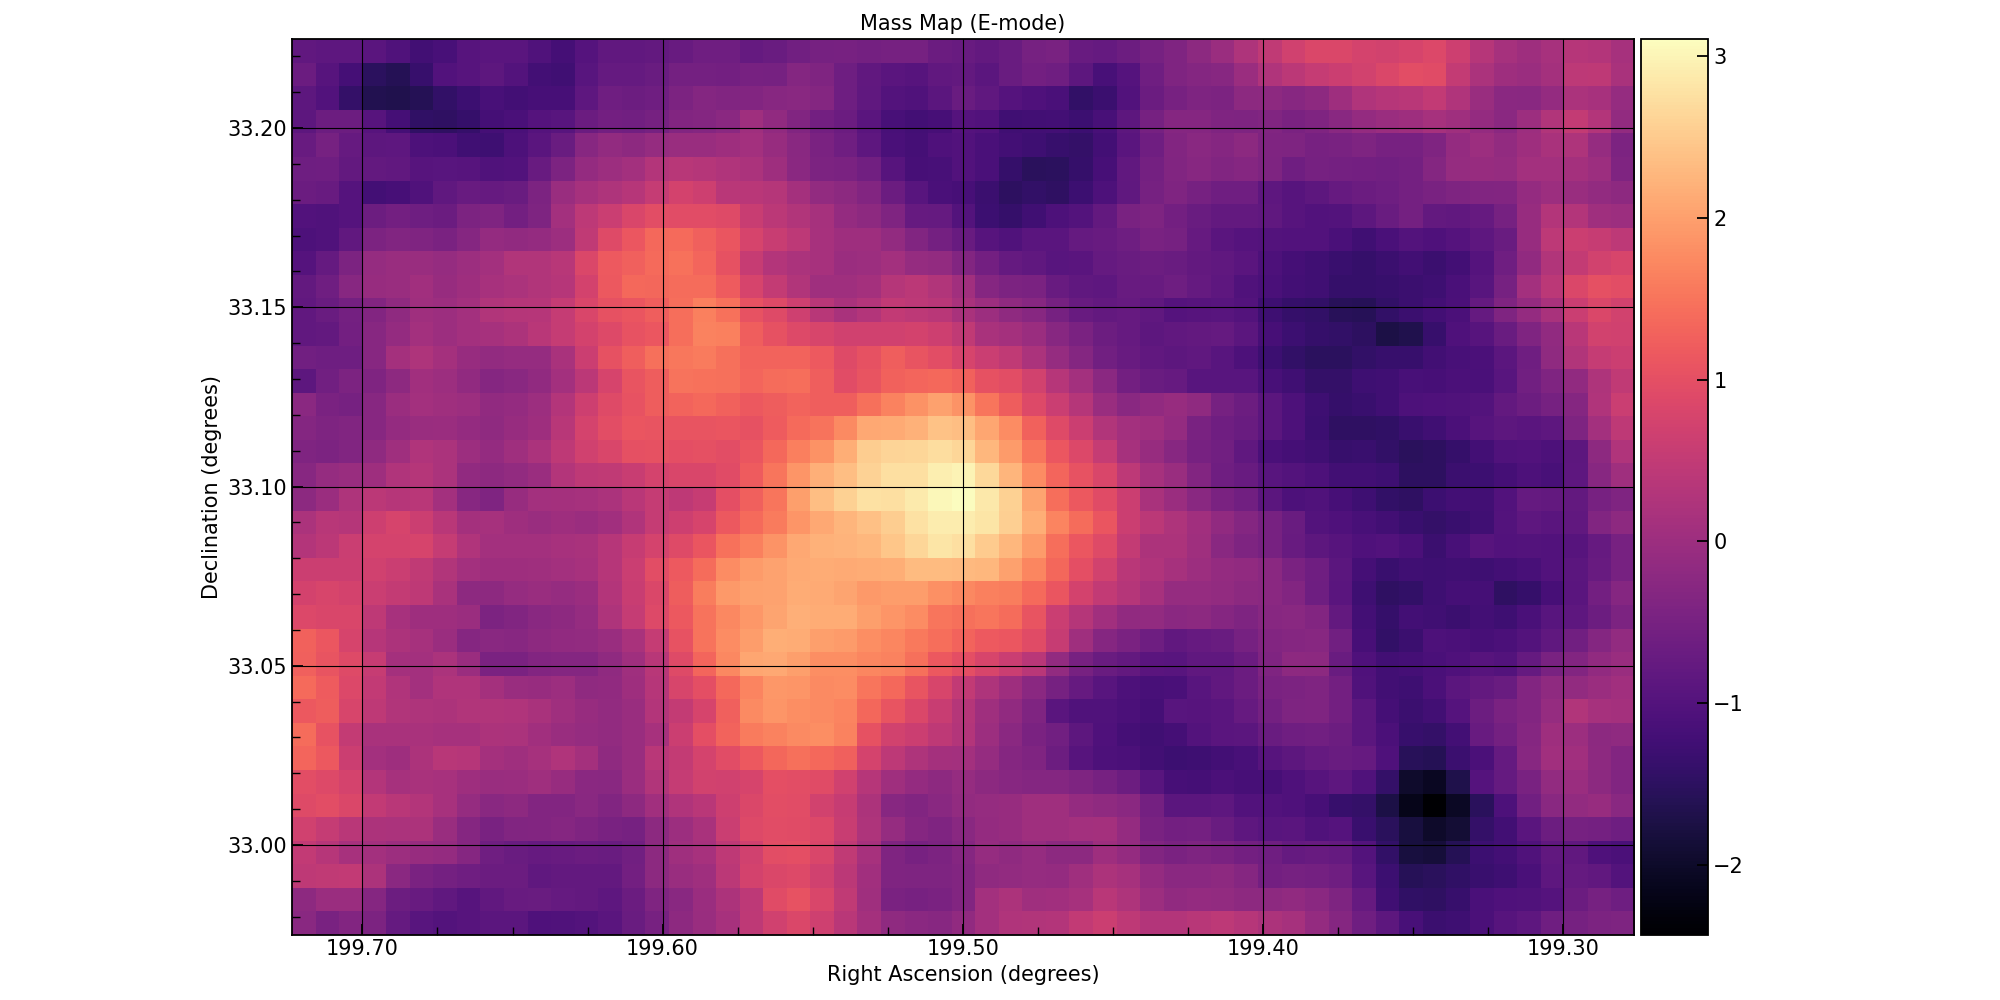
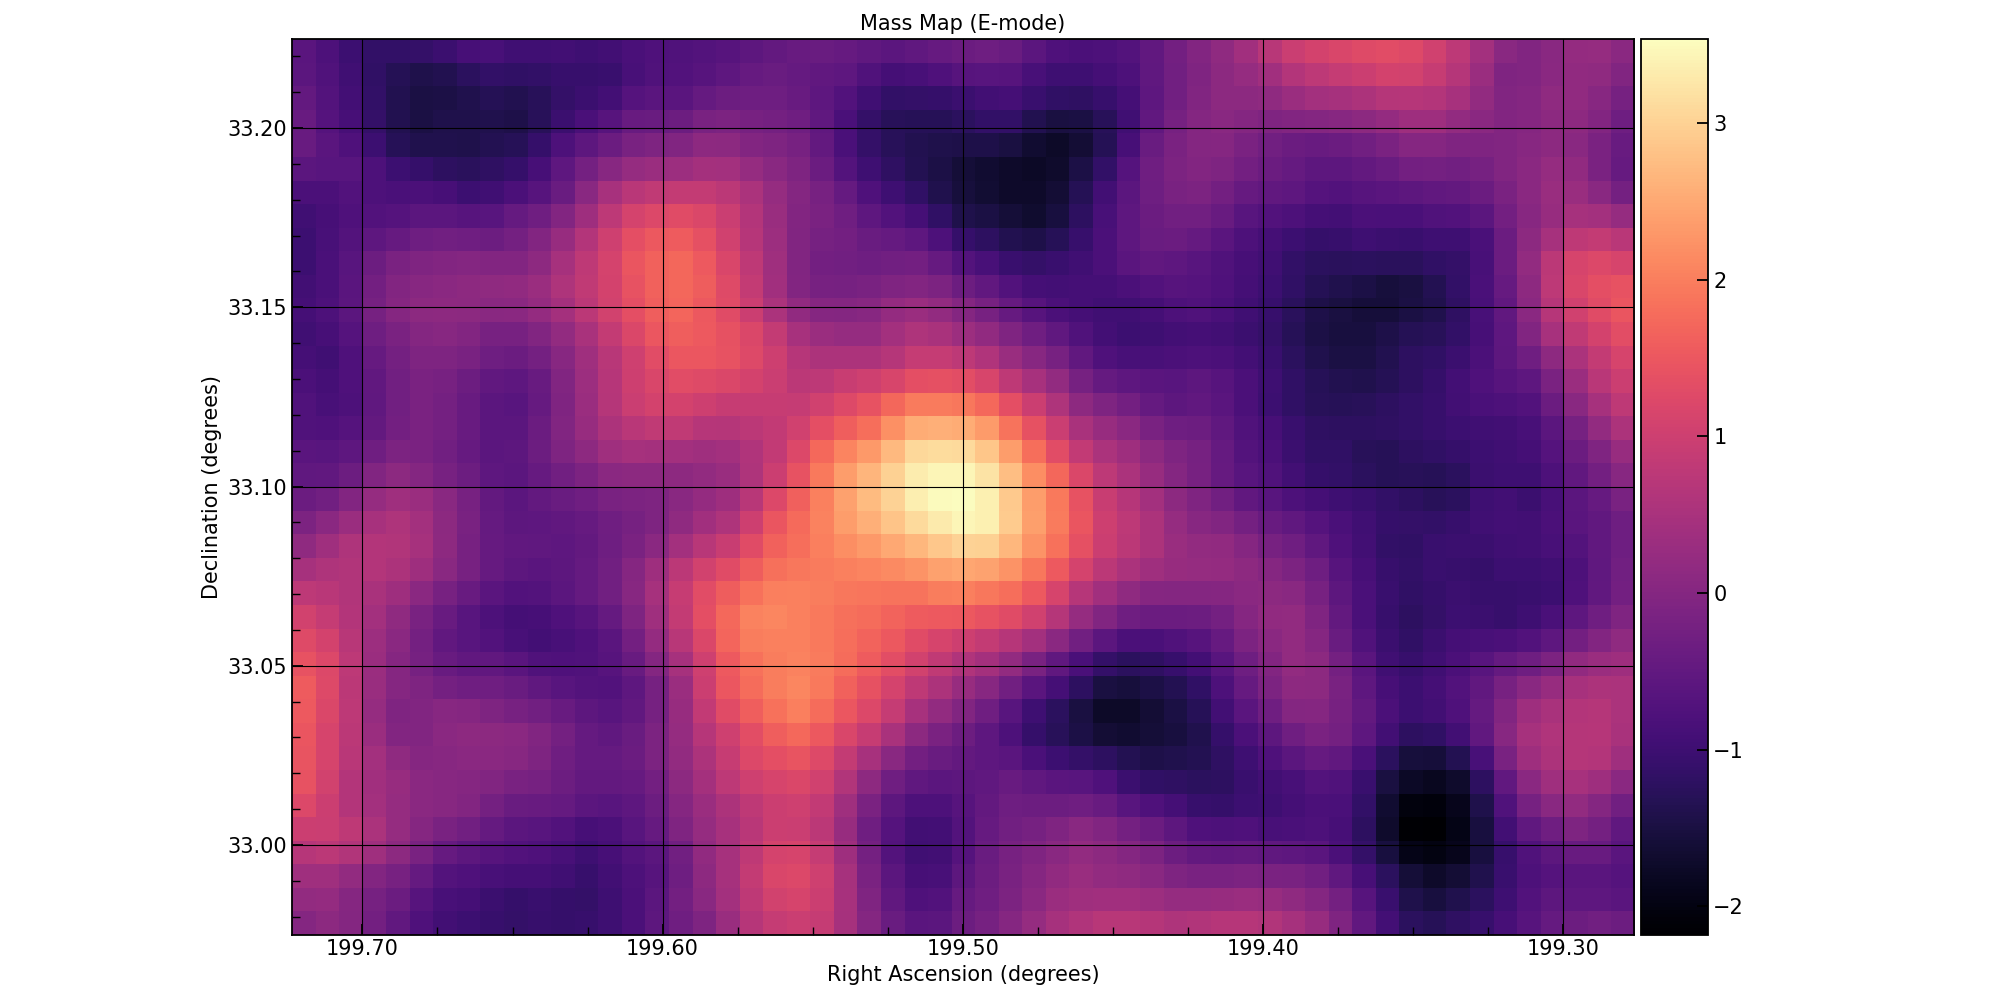
Aperture mass implementation from McCleary et al. 2020 (Broken SNR)

diff --git a/smpy/mapping_methods/aperture_mass/aperture_mass.py b/smpy/mapping_methods/aperture_mass/aperture_mass.py
@@ -1,24 +1,25 @@
-"""Implementation of aperture mass mapping using Schneider+98 filter."""
+"""Implementation of aperture mass mapping using Schirmer filter."""
 
 import numpy as np
 from smpy.mapping_methods.base import MassMapper
-from smpy.filters.processing import s98_aperture_filter
+from smpy.filters.processing import schirmer_filter
 
 class ApertureMassMapper(MassMapper):
-    """Implementation of aperture mass mapping using S98 filter.
+    """Implementation of aperture mass mapping using Schirmer filter.
     
     This class implements the aperture mass mapping technique using the 
-    Schneider+98 filter function. The current implementation uses direct
-    pixel-by-pixel computation.
+    Schirmer filter function, which is optimized for the signal-to-noise ratio
+    of shear measurements. The implementation uses the direct pixel-by-pixel computation
+    method based on Equation 7 and 8 from the documentation.
     """
     
     @property
     def name(self):
         """Name of the mapping method (`str`)."""
         return "aperture_mass"
-        
-    def _compute_aperture_mass(self, g1_grid, g2_grid, scale):
-        """Compute aperture mass maps using brute force pixel method.
+    
+    def _compute_aperture_mass(self, g1_grid, g2_grid, rs):
+        """Compute aperture mass maps using the Schirmer filter.
         
         Parameters
         ----------
@@ -26,8 +27,8 @@ class ApertureMassMapper(MassMapper):
             First shear component grid
         g2_grid : `numpy.ndarray`
             Second shear component grid
-        scale : `float`
-            Aperture scale radius in pixels
+        rs : `float`
+            Aperture filter radius in pixels
             
         Returns
         -------
@@ -39,29 +40,31 @@ class ApertureMassMapper(MassMapper):
         map_e = np.zeros((ny, nx))
         map_b = np.zeros((ny, nx))
         
-        # Compute aperture mass at each position
+        # Compute aperture mass at each position following Equation 7
         for i in range(ny):
             for j in range(nx):
-                # Calculate radius to all pixels
+                # Calculate radius to all pixels (scaled by rs)
                 x = abs(np.arange(nx) - j)
                 y = abs(np.arange(ny) - i)
                 X, Y = np.meshgrid(x**2, y**2)
                 radii = np.sqrt(X + Y)
+                scaled_radii = radii / rs
                 
-                # Get filter values
-                filter_vals = s98_aperture_filter(radii, scale)
+                # Get filter values using the Schirmer filter
+                filter_vals = schirmer_filter(scaled_radii, rs)
                 
-                # Calculate tangential/cross shear
+                # Calculate tangential/cross shear components
                 dx = np.arange(nx) - j
                 dy = np.arange(ny)[:, np.newaxis] - i
                 theta = np.arctan2(dy, dx)
                 
+                # Compute tangential and cross components of ellipticity/shear
                 et = -g1_grid * np.cos(2*theta) - g2_grid * np.sin(2*theta)
                 ex = +g1_grid * np.sin(2*theta) - g2_grid * np.cos(2*theta)
                 
-                # Sum filter * shear
-                map_e[i,j] = np.sum(filter_vals * et)
-                map_b[i,j] = np.sum(filter_vals * ex)
+                # Compute aperture mass values (Equation 7)
+                map_e[i,j] = np.sum(et * filter_vals)
+                map_b[i,j] = np.sum(ex * filter_vals)
                 
         return map_e, map_b
     
@@ -78,14 +81,14 @@ class ApertureMassMapper(MassMapper):
         Returns
         -------
         map_e, map_b : `numpy.ndarray`
-            E-mode and B-mode aperture mass maps
+            E-mode and B-mode aperture mass maps (signal-to-noise ratio)
         """
         # Get filter scale from config
         filter_config = self.config.get('filter', {})
-        scale = filter_config.get('scale', 1.0)
+        rs = filter_config.get('scale', 1.0)
         
         # Compute aperture mass maps
-        map_e, map_b = self._compute_aperture_mass(g1_grid, g2_grid, scale)
+        map_e, map_b = self._compute_aperture_mass(g1_grid, g2_grid, rs)
         
         # Compute noise from shape dispersion
         e_sq = g1_grid**2 + g2_grid**2
@@ -97,7 +100,9 @@ class ApertureMassMapper(MassMapper):
                 y = abs(np.arange(map_e.shape[0]) - i)
                 X, Y = np.meshgrid(x**2, y**2)
                 radii = np.sqrt(X + Y)
-                filter_vals = s98_aperture_filter(radii, scale)
+                scaled_radii = radii / rs
+                
+                filter_vals = schirmer_filter(scaled_radii, rs)
                 noise[i,j] = np.sqrt(np.sum(filter_vals**2 * e_sq))/np.sqrt(2)
         
         # Return signal-to-noise maps

diff --git a/smpy/filters/processing.py b/smpy/filters/processing.py
@@ -42,6 +42,52 @@ def s98_aperture_filter(x, scale):
     
     return result
 
+def schirmer_filter(x, rs):
+    """Schirmer aperture mass filter function Q(x).
+    
+    Parameters
+    ----------
+    x : `numpy.ndarray`
+        Scaled radial distances from the center of the filter (r/Rs)
+    rs : `float`
+        Filter characteristic radius in pixels
+        
+    Returns
+    -------
+    numpy.ndarray
+        Filter values at input radii
+        
+    Notes
+    -----
+    Implements the Q function filter as defined in McCleary et al. 2020:
+    Q(x) = [1/(1 + e^(a-bx) + e^(dx-c))] * [tanh(x/x_c)/(pi*Rs^2*(x/x_c))]
+    
+    Parameters are set to:
+    a = 6, b = 150, c = 47, d = 50, x_c = 0.12 (Hetterscheidt et al. 2005)
+    
+    References
+    ----------
+    .. [1] McCleary et al. 2020
+    .. [2] Hetterscheidt et al. 2005
+    """
+    # Filter parameters
+    a = 6
+    b = 150
+    c = 47
+    d = 50
+    x_c = 0.12
+    
+    # Calculate the first part: 1/(1 + e^(a-bx) + e^(dx-c))
+    part1 = 1.0 / (1.0 + np.exp(a - b*x) + np.exp(d*x - c))
+    
+    # Calculate the second part: tanh(x/x_c)/(pi*Rs^2*(x/x_c))
+    # Avoid division by zero when x = 0
+    x_ratio = np.divide(x, x_c, out=np.ones_like(x)*1e-10, where=x!=0)
+    part2 = np.tanh(x_ratio) / (np.pi * rs**2 * x_ratio)
+    
+    # Combine parts and return
+    return part1 * part2
+
 def create_s98_kernel(scale, truncation=1.0):
     """Create a 2D kernel for the S98 aperture mass filter.
     
@@ -68,6 +114,41 @@ def create_s98_kernel(scale, truncation=1.0):
     
     # Compute filter values
     kernel = s98_aperture_filter(R, scale)
+    
+    # Normalize
+    kernel = kernel / np.sum(np.abs(kernel))
+    
+    return kernel
+
+def create_schirmer_kernel(scale, truncation=1.0):
+    """Create a 2D kernel for the Schirmer aperture mass filter.
+    
+    Parameters
+    ----------
+    scale : float
+        Scale radius of the filter in pixels
+    truncation : float, optional
+        Truncation radius in units of scale radius, by default 1.0
+        
+    Returns
+    -------
+    numpy.ndarray
+        2D filter kernel
+    """
+    # Create grid for kernel
+    size = int(np.ceil(2 * truncation * scale))
+    size = size + 1 if size % 2 == 0 else size  # Ensure odd size
+    
+    x = np.linspace(-truncation * scale, truncation * scale, size)
+    y = x.copy()
+    X, Y = np.meshgrid(x, y)
+    R = np.sqrt(X**2 + Y**2)
+    
+    # Calculate scaled radii
+    scaled_R = R / scale
+    
+    # Compute filter values
+    kernel = schirmer_filter(scaled_R, scale)
     
     # Normalize
     kernel = kernel / np.sum(np.abs(kernel))
@@ -101,6 +182,33 @@ def s98_aperture_filter_convolution(data, filter_config):
     kernel = create_s98_kernel(scale, truncation)
     return convolve(data, kernel, mode='constant', cval=0.0)
 
+def schirmer_filter_convolution(data, filter_config):
+    """Apply Schirmer aperture filter to input data.
+    
+    Parameters
+    ----------
+    data : numpy.ndarray
+        Input shear data to be filtered
+    filter_config : dict
+        Filter configuration containing:
+        - type: filter type ('schirmer')
+        - scale: characteristic scale of the filter
+        - truncation: scale factor for truncation (optional)
+        
+    Returns
+    -------
+    numpy.ndarray
+        Filtered data
+    """
+    if not filter_config or filter_config.get('type', '').lower() != 'schirmer':
+        raise ValueError("Invalid or missing filter configuration")
+    
+    scale = filter_config.get('scale', 1.0)
+    truncation = filter_config.get('truncation', 1.0)
+    
+    kernel = create_schirmer_kernel(scale, truncation)
+    return convolve(data, kernel, mode='constant', cval=0.0)
+
 def apply_aperture_filter(data, filter_config):
     """Apply aperture filter based on configuration.
     
@@ -123,5 +231,7 @@ def apply_aperture_filter(data, filter_config):
     
     if filter_type == 's98':
         return s98_aperture_filter_convolution(data, filter_config)
+    elif filter_type == 'schirmer':
+        return schirmer_filter_convolution(data, filter_config)
     else:
         raise ValueError(f"Unknown aperture filter type: {filter_type}")

diff --git a/smpy/filters/__init__.py b/smpy/filters/__init__.py
@@ -1,10 +1,9 @@
 """Filters package for SMPy."""
 
 from .plotting import apply_filter
-from .processing import apply_aperture_filter, gaussian_aperture_filter
+from .processing import apply_aperture_filter
 
 __all__ = [
     'apply_filter',           # From plotting.py
     'apply_aperture_filter',  # From processing.py
-    'gaussian_aperture_filter'
 ]

diff --git a/smpy/mapping_methods/aperture_mass/__init__.py b/smpy/mapping_methods/aperture_mass/__init__.py
@@ -1,4 +1,4 @@
-"""Aperture mass mapping implementation using S98 filter."""
+"""Aperture mass mapping implementation using Schirmer filter."""
 
 from .aperture_mass import ApertureMassMapper
 
